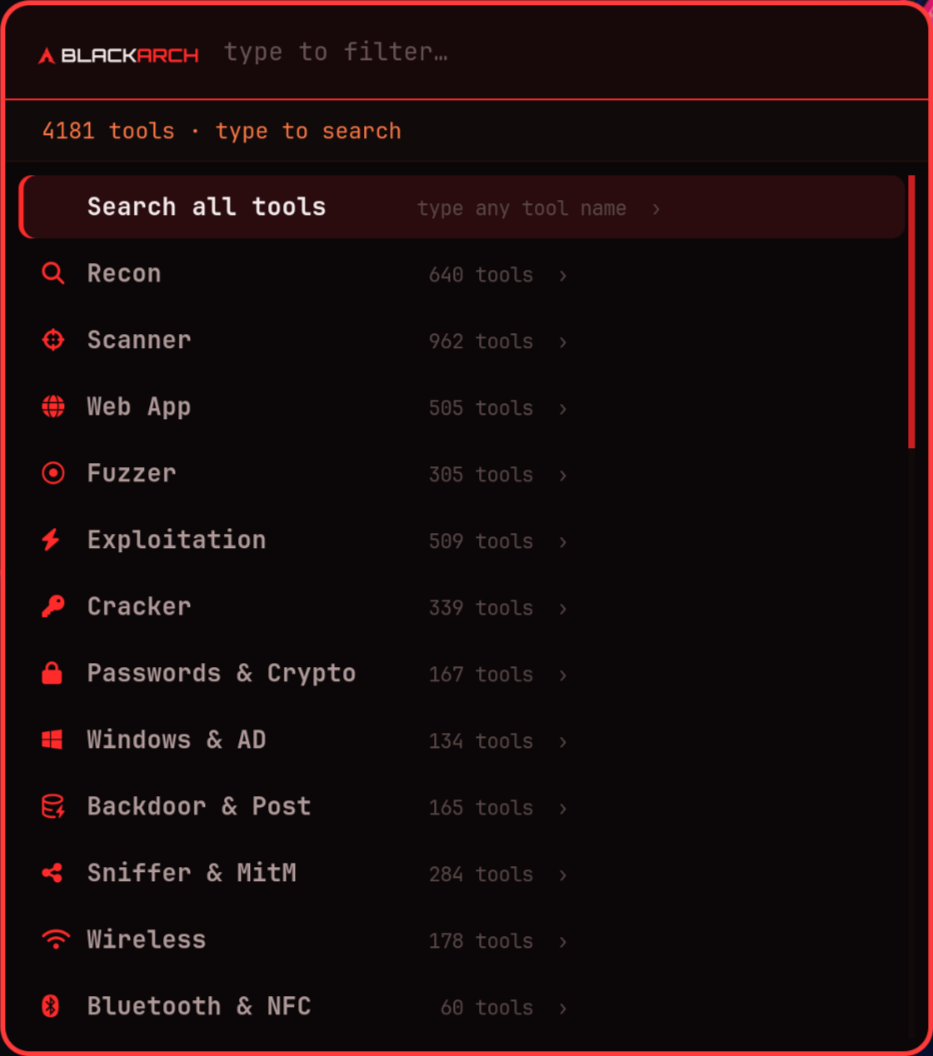
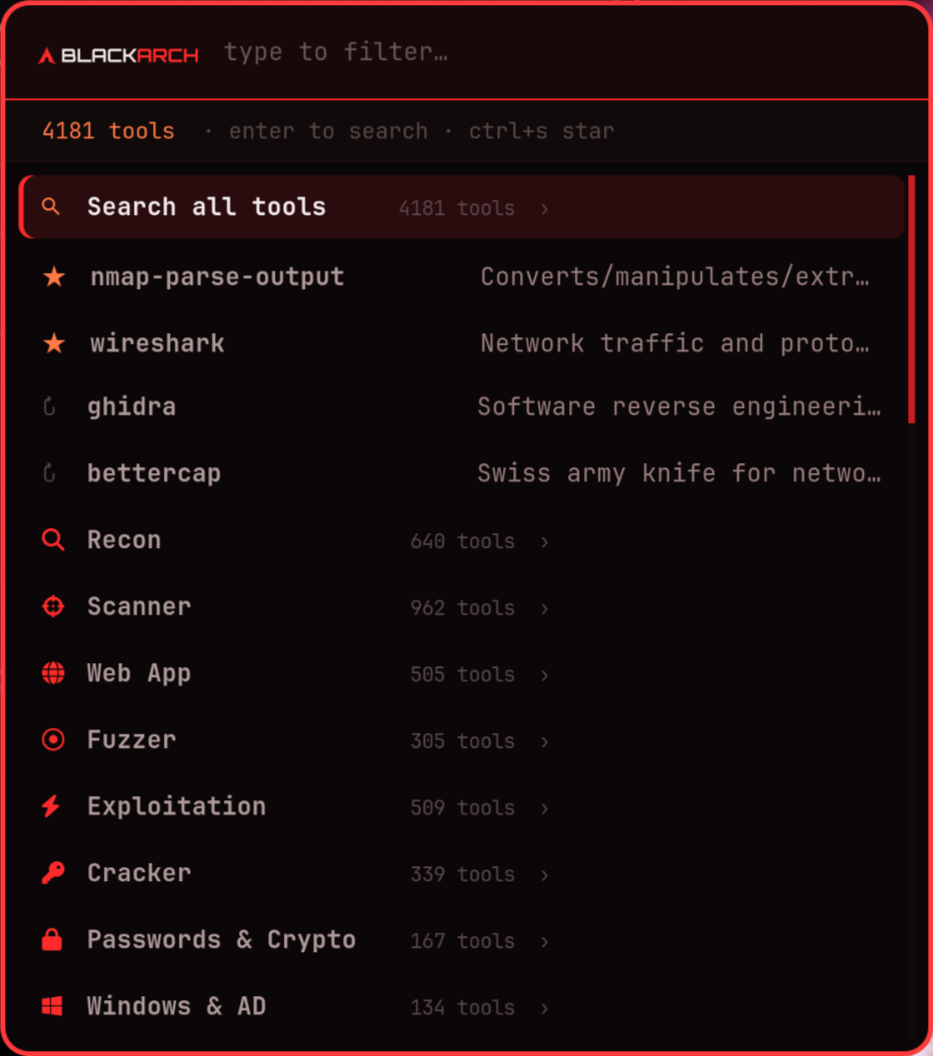
docs+test: cover the search entry, favorites and recents
Tests assert the shape of both lists rather than just that they build:
the top view must stay short and must NOT leak the tool list into it,
and the search list must be tools only, favorites first, no duplicates.
Plus star/unstar and recents ordering + dedupe against the state layer
directly. 16 checks now, green on Arch, Debian, Ubuntu, Fedora, Alpine.

README and screenshots redone for the new top view.

diff --git a/README.md b/README.md
@@ -17,14 +17,14 @@
 
 BlackArch ships thousands of security tools, but finding and remembering how to
 run them is its own job. **BlackArch Toolbox** turns the whole arsenal into a
-single keystroke: press **`Alt`+`A`**, then either type a tool's name or pick a
-category and drill in. Whatever you choose opens — a GUI tool in its own window,
+single keystroke: press **`Alt`+`A`**, type any part of a tool's name, and hit
+`Enter`. Don't know the name? Browse a category instead. Whatever you choose opens — a GUI tool in its own window,
 a command-line tool in a themed terminal that shows you exactly how to run it
 first.
 
 <div align="center">
 
-| Level 1 — search entry + sections | Level 2 — the tools, filtered as you type |
+| The default view — favorites, recents, categories | Typing searches every tool |
 |:---:|:---:|
 | <img src="assets/menu.png" width="420"> | <img src="assets/menu-tools.png" width="420"> |
 
@@ -45,9 +45,13 @@ catalogue against your `PATH`, so a tool shows up no matter how you installed it
 
 - **⌨  One keybinding, everywhere** — `Alt`+`A` on Hyprland, sway, i3, GNOME,
   and Windows; a menu in any terminal over SSH.
-- **🧭  Two-level menu** — level 1 is a search entry plus 27 sections ordered
-  like an engagement (recon → scan → exploit → escalate → specialist benches);
-  level 2 is the tools themselves, filtered as you type.
+- **🔎  Search-first** — the first row is **Search all tools**: one `Enter`
+  into every indexed tool, filtered as you type.
+- **⭐  Favorites & recents** — starred tools and your last-used ones sit at the
+  top of the default view. `Ctrl`+`S` stars whatever is highlighted.
+- **🧭  Categories when you need them** — 27 sections ordered like an engagement
+  (recon → scan → exploit → escalate → specialist benches), for when you don't
+  know the tool's name.
 - **✅  Only runnable tools** — every entry is an executable that exists on your
   machine right now. No dead menu rows.
 - **📖  Never a blank prompt** — CLI tools open into a screen with their
@@ -147,27 +151,36 @@ Full steps: **[docs/INSTALL.md ▸ Windows](docs/INSTALL.md#windows-wsl)**.
 
 ## Usage
 
-The menu has exactly two levels, and the top one stays short on purpose — the
-arsenal is never dumped into the default view.
+The fast path is **`Alt`+`A`, `Enter`, type** — the search list is the first
+row, so it opens on the keystroke you were already pressing.
 
-**Level 1** — a single **Search all tools** entry, then the 27 sections with
-their tool counts. One line of status above them: how many tools are indexed,
-and the reminder that typing filters.
+The top view is short on purpose — every row is a destination, and the
+4000-tool list is not poured into it:
 
-**Level 2** — the list you drilled into, either the whole arsenal or one
-section. Type to filter, `Enter` launches, `Esc` goes back up. Each row is the
-tool name padded to a fixed column with its description beside it, so the
-descriptions line up as a second column rather than a ragged dump.
+```
+  🔍 Search all tools       one Enter into the full, organised list
+  ★  starred tools          the ones you reach for on purpose
+  ↻  recent tools           the ones you reached for last
+     27 categories          for when you don't know the name
+```
+
+`Enter` on **Search all tools** opens every indexed tool as one list you filter
+by typing. Starred and recent tools are lifted to the top of it and removed from
+the body, so no list ever offers the same tool twice.
+
+**Don't know the name?** Pick a category and browse it — same picker, same keys.
+`Esc` goes back up, `Esc` again closes.
 
 Filtering is **substring** matching, not fuzzy: typing `metasp` gives you the
-metasploit family and nothing else. (Fuzzy matching scatters the query letters
-across the row, which is how `metasploit` used to return `mentalist`.)
+metasploit family and nothing else. (Fuzzy scatters the query letters across the
+row, which is how `metasploit` used to return `mentalist`.)
 
 | Action | How |
 |--------|-----|
 | Open the menu | **`Alt`+`A`**, or `blackarch-toolbox` |
-| Search every tool | open **Search all tools**, then type any tool name |
+| Launch a tool by name | **`Alt`+`A`**, `Enter`, type any part of the name, `Enter` |
 | Browse a category | pick a section (e.g. **Web App**) to drill into it |
+| Star / unstar the highlighted tool | **`Ctrl`+`S`** (rofi and fzf) |
 | Go back a level | `Esc` |
 | Close the menu | `Esc` again, or press `Alt`+`A` a second time |
 | Rebuild the index (after installing tools) | `blackarch-toolbox --refresh` |

diff --git a/CHANGELOG.md b/CHANGELOG.md
@@ -55,3 +55,28 @@ distribution, macOS, and Windows (through WSL).
   several users, each with their own index and history.
 
 [1.0.0]: https://github.com/nithin2719-commits/Blackarch_Toolbox/releases/tag/v1.0.0
+
+## [1.1.0]
+
+Search, favorites and recents — the launcher gets a front door.
+
+### Added
+- **Search all tools** is the first row of the menu: one `Enter` opens every
+  indexed tool as a single organised list you filter by typing.
+- **Favorites** — `Ctrl`+`S` stars the highlighted tool. Starred tools sit at
+  the top of the menu and of the search list.
+- **Recently used** — the last few launched tools appear under the favorites,
+  automatically. No configuration, no counters.
+- `tests/smoke.sh` and `tests/run-distros.sh`: the whole non-graphical surface,
+  run in containers on Arch, Debian, Ubuntu, Fedora and Alpine.
+
+### Fixed
+- `sprintf("%-*s", ...)` broke indexing entirely under busybox awk, so Alpine
+  could not build an index despite being a supported platform.
+- `readlink -f` in the entry point is a GNU extension; on BSD/macOS the command
+  would have failed on its first line.
+- `grep -oP` (PCRE) is not in busybox or BSD grep.
+- The BlackArch lockup changed size with the menu level, because the theme
+  scales it to the prompt widget and rofi sizes that widget from its (invisible)
+  prompt text.
+- The tool view opened as a small tile instead of filling the workspace.
